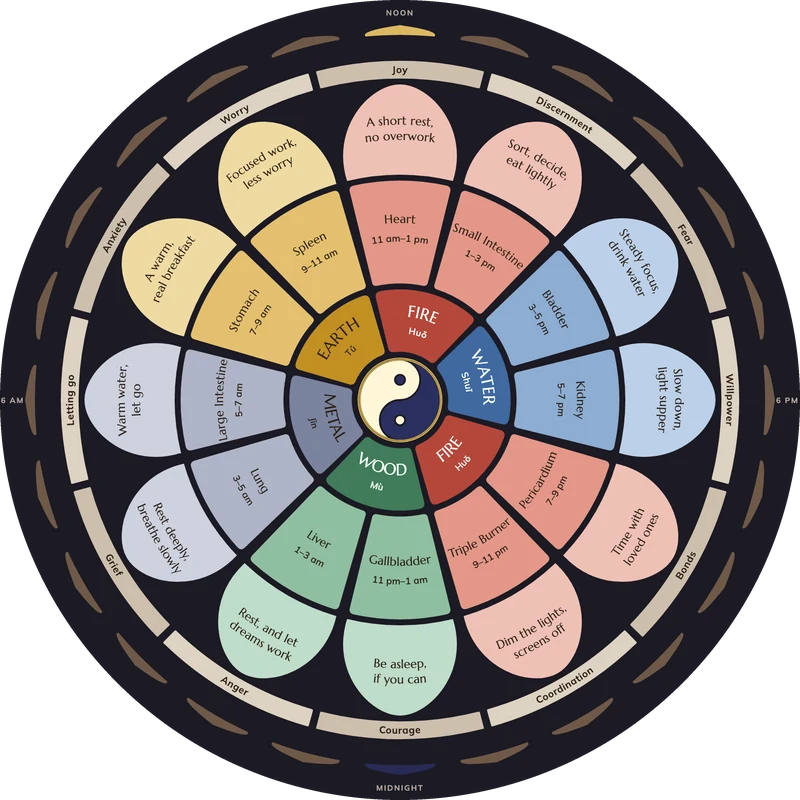
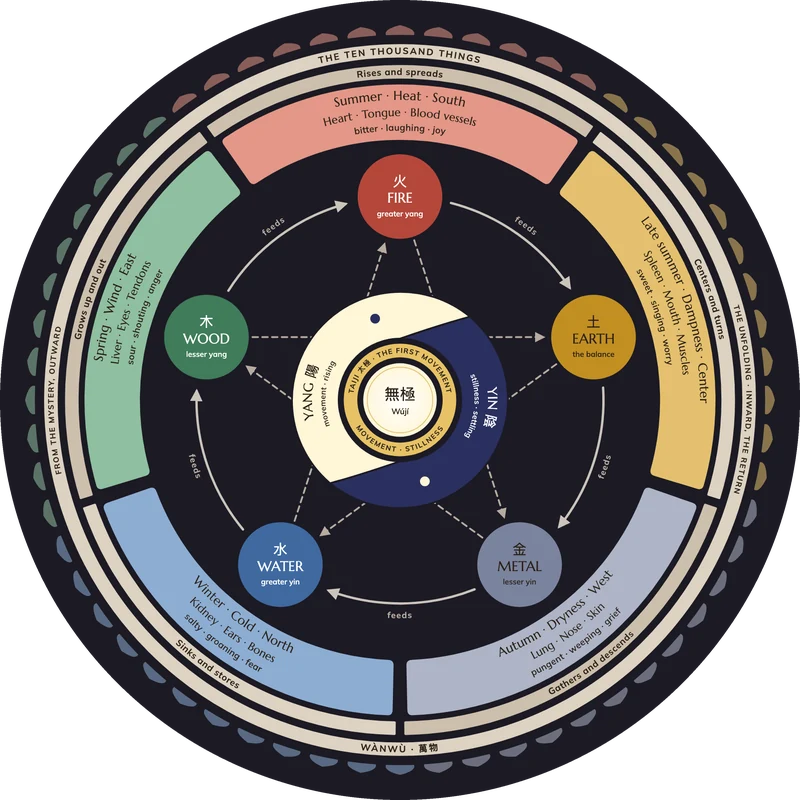
Body Clock Mandala card: the Phases wheel, and text for all three wheels

diff --git a/index.html b/index.html
@@ -105,8 +105,8 @@ const MANDALAS=[
    alt:"A glowing center of coherence, ringed by the window of capacity and the ring of survival, with four petals of the way back laid over it, and a braid with golden rays"},
   {name:"The Body Clock Mandala", href:"https://erinsarita.github.io/tcm-mandala/", img:"img/body-clock.webp", imgDark:"img/body-clock-dark.webp", themeKey:"tcm-theme",
    eyebrow:"Traditional Chinese Medicine", tint:["#3F7C5A","#8FBFA0"],
-   text:"Two wheels for the rhythms of Traditional Chinese Medicine. The Day wheel is the body clock: qi passing through twelve organ hours around the 24-hour clock. The Year wheel is the Five Phases in their five seasons, from spring to winter.",
-   alt:"A yin-yang at the center, ringed by the Five Phases, twelve organ hours in green, red, gold, silver, and blue, petals of daily life, and a band of feelings"}
+   text:"Three wheels for Traditional Chinese Medicine. The Phases wheel goes to the roots, from Wuji and yin and yang to the Five Phases, their correspondences, the cycles that feed and tame them, and the qualities that bring balance. The Day wheel is the body clock of the twelve organ hours, and the Year wheel is the Five Phases in their five seasons.",
+   alt:"Wuji and a swirl of yin and yang at the center, with the Five Phases spaced evenly around it, joined by arrows around the circle and a star across it, ringed by their seasons, organs, tastes, and feelings"}
 ];
 const arrow=`<svg viewBox="0 0 16 16" fill="none" stroke="currentColor" stroke-width="1.8" stroke-linecap="round" stroke-linejoin="round" aria-hidden="true"><path d="M3 8h9M8.5 4.5 12 8l-3.5 3.5"/></svg>`;
 document.getElementById("grid").innerHTML=MANDALAS.map(m=>`<li><a class="card" href="${m.href}" style="--tint-l:${m.tint[0]};--tint-d:${m.tint[1]}">
